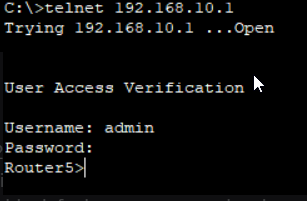
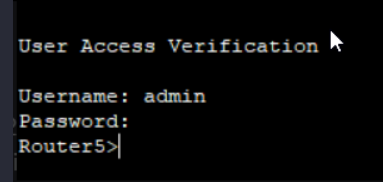
AAA

diff --git a/documentation/Servers/AAA/AAA.md b/documentation/Servers/AAA/AAA.md
@@ -20,7 +20,6 @@ It has the following configuration:
    - **Port**:`49`
    - **Shared Secret Key**:`cisco456`
 
-![alt text](assets/Radius_Tacacs+.png)
 
 Next we assign usernames and passwords to the users in the network.
 
@@ -54,4 +53,4 @@ For demonstration purposes, we used the following usernames and passwords:
 
 ### And sure enough `admin` was able to log in successfully.
 
-   ![alt text](assets/userLogin.png)
+![alt text](image.png)
